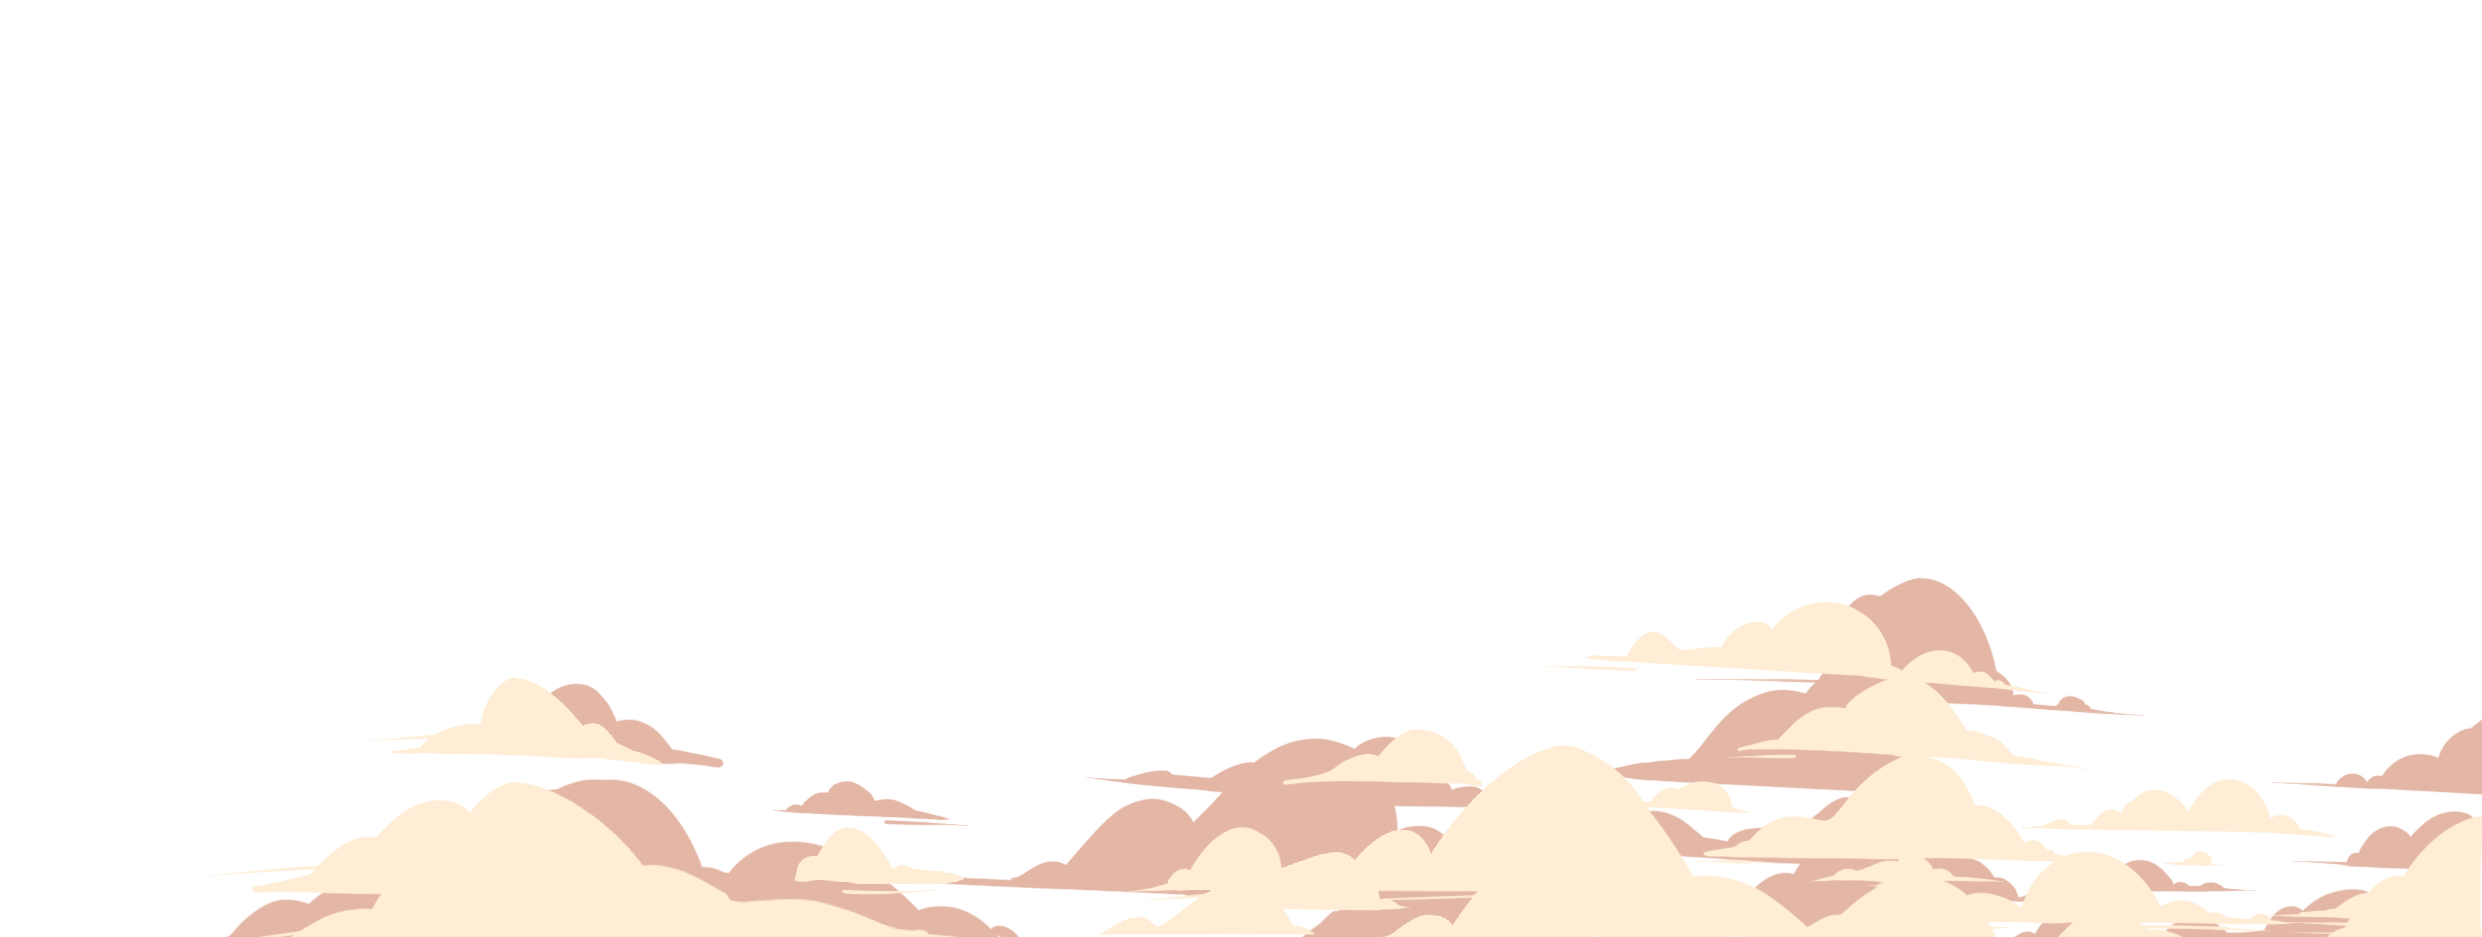
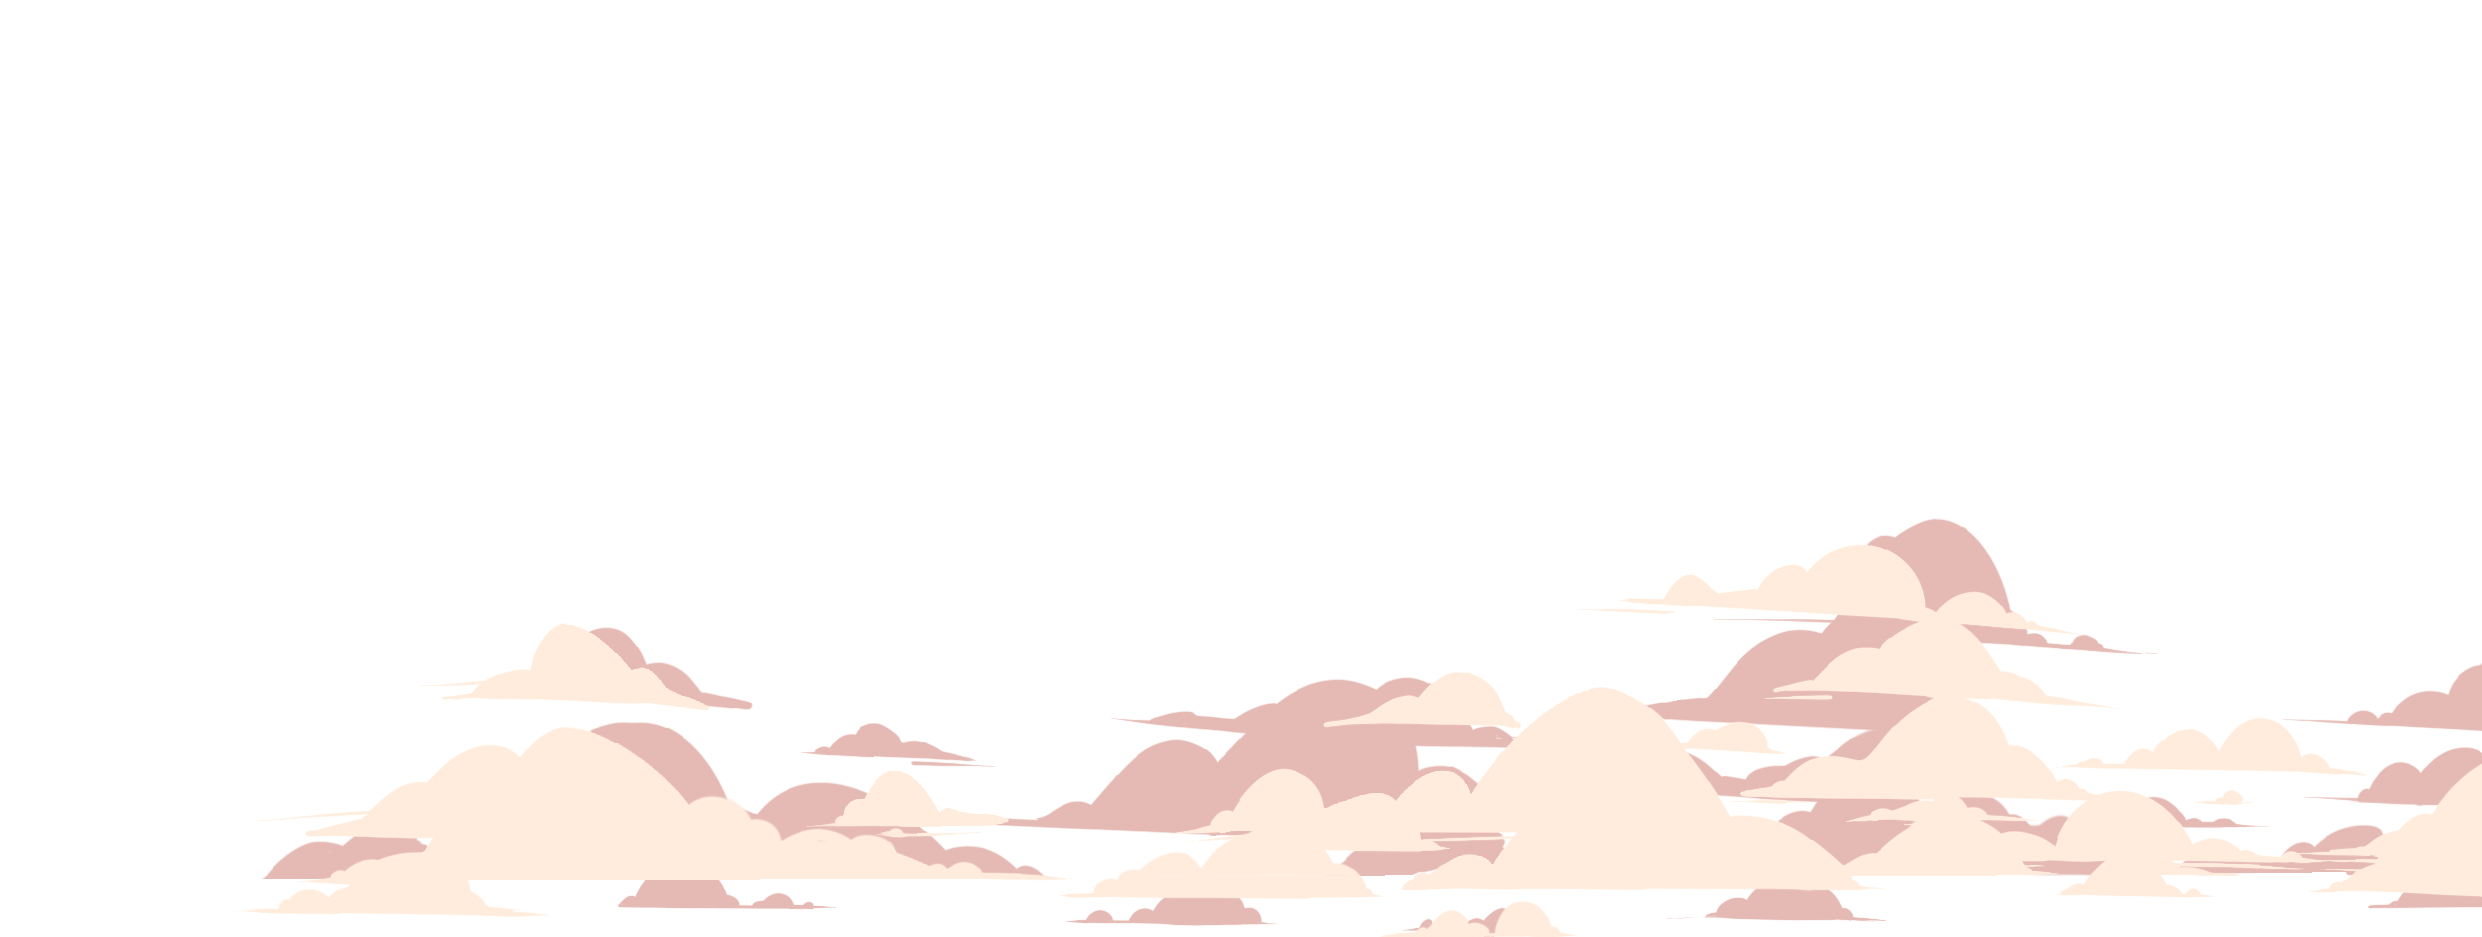
Fixed: 自适应

Changed region(s): [[0.0931, 0.5571, 1.0, 1.0]]

diff --git a/style/index.css b/style/index.css
@@ -52,7 +52,7 @@ html {
 }
 
 #contactBtn {
-  padding: 0 4rem;
+  padding: 0 2rem;
   line-height: 3;
   border: 1px solid #ffffff;
   font-size: 1.3rem;
@@ -63,6 +63,14 @@ html {
   animation: logoText 3s 1 forwards;
 }
 
+.contactBtnBox {
+  transition: all .3s;
+}
+
+.contactBtnBox:hover {
+  transform: scale(1.3);
+}
+
 .littleThings {
   position: absolute;
   height: 200vh;
@@ -71,6 +79,7 @@ html {
 
 .littleThings>img {
   position: absolute;
+  width: 13%;
 }
 
 .littleThings img:nth-child(1) {
@@ -304,7 +313,7 @@ html {
 }
 
 .teamLeftLogo {
-  width: 200px;
+  width: 30%;
   background-image: linear-gradient(to top, #e6e9f0 0%, #eef1f5 100%);
   position: absolute;
   top: 50%;
@@ -344,23 +353,23 @@ html {
 }
 
 .teamLeftBox img:nth-child(2) {
-  width: 105px;
+  width: 17%;
 }
 
 .teamLeftBox img:nth-child(3) {
-  width: 100px;
+  width: 15%;
 }
 
 .teamLeftBox img:nth-child(4) {
-  width: 120px;
+  width: 14%;
 }
 
 .teamLeftBox img:nth-child(5) {
-  width: 130px;
+  width: 15%;
 }
 
 .teamLeftBox img:nth-child(6) {
-  width: 140px;
+  width: 16%;
 }
 
 @keyframes borderAnimation {
@@ -417,8 +426,12 @@ html {
   letter-spacing: 1px;
   line-height: 1.5;
   color: #ffffff;
-  font-size: 2rem;
+  font-size: 1.8rem;
   padding-right: 9vw;
+}
+
+.presidiumContent ul li:nth-child(11) div.PresidiumSaying {
+  top: -41vh;
 }
 
 .presidiumContent ul li:not(:first-child) {
@@ -469,7 +482,6 @@ html {
 
 .presidiumContent li.musicpaper.eq4 {
   top: 80%;
-  height: 60%;
 }
 
 .presidiumContent li.musicpaper.eq4 .end {
@@ -482,7 +494,7 @@ html {
 
 .presidiumContent li.presidiumCloud {
   position: absolute;
-  bottom: -50%;
+  bottom: -52%;
 }
 
 .presidiumContentCloud {
@@ -523,7 +535,7 @@ html {
   position: absolute;
   top: -35vh;
   width: 15vw;
-  height: 30vh;
+  min-height: 30vh;
   left: -3vw;
   color: #ffffff;
   font-size: 1.3rem;
@@ -531,6 +543,9 @@ html {
   padding: 0.5rem;
   border-color: transparent;
   background: rgba(255, 255, 255, 0.1);
+  display: flex;
+  justify-content: center;
+  align-items: center;
 }
 
 .PresidiumSaying p {
@@ -546,7 +561,7 @@ html {
   border-left: 20px solid transparent;
   border-right: 20px solid transparent;
   position: absolute;
-  bottom: -15%;
+  bottom: -40px;
   left: 40%;
 }
 
@@ -606,6 +621,7 @@ html {
   opacity: 0.6;
   animation: cloudMoveA 5s infinite;
   position: absolute;
+  width: 30%;
 }
 
 .cloudBoxB svg {
@@ -613,12 +629,14 @@ html {
   opacity: 0.8;
   position: absolute;
   animation: cloudMoveB 5s infinite;
+  width: 30%;
 }
 
 .cloudBoxC svg {
   fill: #e7c9d2;
   position: absolute;
   animation: cloudMoveC 5s infinite;
+  width: 30%;
 }
 
 .cloudBoxA svg:nth-child(1) {
@@ -776,9 +794,6 @@ html {
   0% {
     transform: translate3d(0px, -40vh, 0px) scaleY(2);
     opacity: 0;
-  }
-
-  50% {
     border-radius: 50%;
   }
 
@@ -866,6 +881,7 @@ html {
   height: 50vh;
   display: flex;
   justify-content: space-around;
+  background: linear-gradient(#fdfbf7, #fff2f200);
 }
 
 .projectContent {
@@ -877,9 +893,9 @@ html {
 
 .projectImgBox {
   width: 85%;
-  max-height: 50%;
+  max-height: 45%;
   overflow: hidden;
-  border: 20px solid #000000;
+  border: 0.7vw solid #000000;
   margin: 0 auto;
 }
 
@@ -894,7 +910,7 @@ html {
   border-radius: 50%;
   background: red;
   height: 1.5vh;
-  bottom: 46%;
+  bottom: 50%;
   right: 11%;
   transition: all .5s ease-in-out;
   z-index: 3;
@@ -912,7 +928,7 @@ html {
 
 .tray {
   position: absolute;
-  top: 56%;
+  top: 51%;
   left: 50%;
   transform: translate(-48%, 0%);
 }
@@ -920,7 +936,7 @@ html {
 .blackScreen {
   width: 82%;
   background: black;
-  height: 47%;
+  height: 43%;
   position: absolute;
   top: 0%;
   left: 9%;
@@ -982,7 +998,7 @@ html {
 }
 
 .DepartmentContent p {
-  font-size: 1.2rem;
+  font-size: 1.1rem;
   line-height: 2;
   padding: 0 .3rem;
 }

diff --git a/js/index.js b/js/index.js
@@ -374,16 +374,14 @@ const allScroll = () => {
       ['transform', 'skew(-20deg)'],
       ['animation', 'wordShake .8s infinite'],
       ['opacity', '0.5'],
-      ['animation', 'competionOut .8s 1 forwards'],
-      ['opacity', '0']
+      ['animation', 'competionOut .8s 1 forwards']
 
     ],
     'showDom': [
       ['transform', 'skew(0deg)'],
       ['animation', 'wordShake .8s 1'],
       ['opacity', '1'],
-      ['animation', 'competionIn .8s 1 forwards'],
-      ['opacity', '1']
+      ['animation', 'competionIn .8s 1 forwards']
     ]
   }
 
@@ -481,7 +479,6 @@ const allScroll = () => {
         $(ev).find('h1').find('span'),
         $(ev).find('h1').find('span'),
         $(ev).find('img'),
-        $(ev).find('img'),
         $(ev).find('img')
       ]
       return arr
@@ -536,7 +533,8 @@ const allScroll = () => {
     if (elementScrollTop > illustrations.offsetTop && elementScrollTop < illustrations.wholeHeight())
       illustrationsScroll(e)
     if (elementScrollTop - activity.offsetTop + window.innerHeight * 0.2 >= 0 && elementScrollTop - (activity.offsetTop + window.innerHeight * 2.3) <= 0) {
-      if (Math.abs(elementScrollTop - beforeElementScrollTop) > 50) {
+      console.log(Math.abs(elementScrollTop - beforeElementScrollTop))
+      if (Math.abs(elementScrollTop - beforeElementScrollTop) > 10) {
         activityImgScroll(e, elementScrollTop)
         activityFlyGirlScroll(elementScrollTop)
       }
@@ -552,7 +550,7 @@ const allScroll = () => {
         scroll(e, elementScrollTop, document.documentElement.scrollTop)
         setTimeout(() => {
           scroll(e, elementScrollTop, document.documentElement.scrollTop)
-        }, 50)
+        }, 30)
       }
     };
   })

diff --git a/index.html b/index.html
@@ -55,10 +55,12 @@
       <div class="starBox"></div>
       <div id="logoText">
         <p>SACC</p>
-        <button id="contactBtn">Contact Us</button>
+        <div class="contactBtnBox">
+          <button id="contactBtn">Contact Us</button>
+        </div>
       </div>
       <div class="littleThings">
-        <img src="./img/蓝紫星球.png" alt="">
+        <img src="./img/material/蓝紫星球.png" alt="">
         <img src="./img/material/rocket.png" alt="">
         <img src="./img/material/ufo.png" alt="">
         <img src="./img/material/metor.png" alt="">
@@ -99,7 +101,7 @@
       </div>
       <div class="teamRight"></div>
       <div class="backgroundImg">
-        <img src="./img/material/groupCloud3.png" alt="">
+        <img src="./img/material/groupCloud.png" alt="">
       </div>
     </div>
     <div class="activity">

diff --git a/style/mobile.css b/style/mobile.css
@@ -17,7 +17,7 @@
   }
 
   .activity {
-    background: linear-gradient(180deg, #ffedd678, transparent);
+    background: linear-gradient(180deg, #ffedd678, #f6e2c821);
   }
 
 
@@ -81,7 +81,20 @@
 
   .presidiumContent>ul {
     width: 200vw;
-}
+  }
+
+  .groupText {
+    font-size: 1.1rem;
+    letter-spacing: 0.2rem;
+  }
+
+  .PresidiumSaying {
+    width: 20vw;
+  }
+
+  .presidiumContent ul li:nth-child(11) div.PresidiumSaying {
+    top: -50vh;
+  }
 }
 
 @media (max-width: 991px) {
@@ -124,10 +137,6 @@
 
   #logoText>p {
     font-size: 5rem;
-  }
-
-  #contactBtn {
-    padding: 0 15%;
   }
 
   .logoPurplePlant>img {
@@ -258,6 +267,10 @@
     display: flex;
     width: 500%;
     transition: all 0.2s ease-in-out;
+  }
+
+  .presidiumMobile_2017>ul {
+    width: 400%;
   }
 
   .presidiumMobile_2019>ul li,

diff --git a/js/mobile.js b/js/mobile.js
@@ -29,7 +29,7 @@ const presidiumMobileDrag = (moveClass) => {
     then, now, index = 0,
     time = 0,
     curTime = 0,
-    length = $(moveClass).children().length;
+    length = moveClass == '.presidiumMobile_2017 ul' ? 4:5;
   list.addEventListener('touchmove', dragDown);
   list.addEventListener('touchend', dragUp);
 
